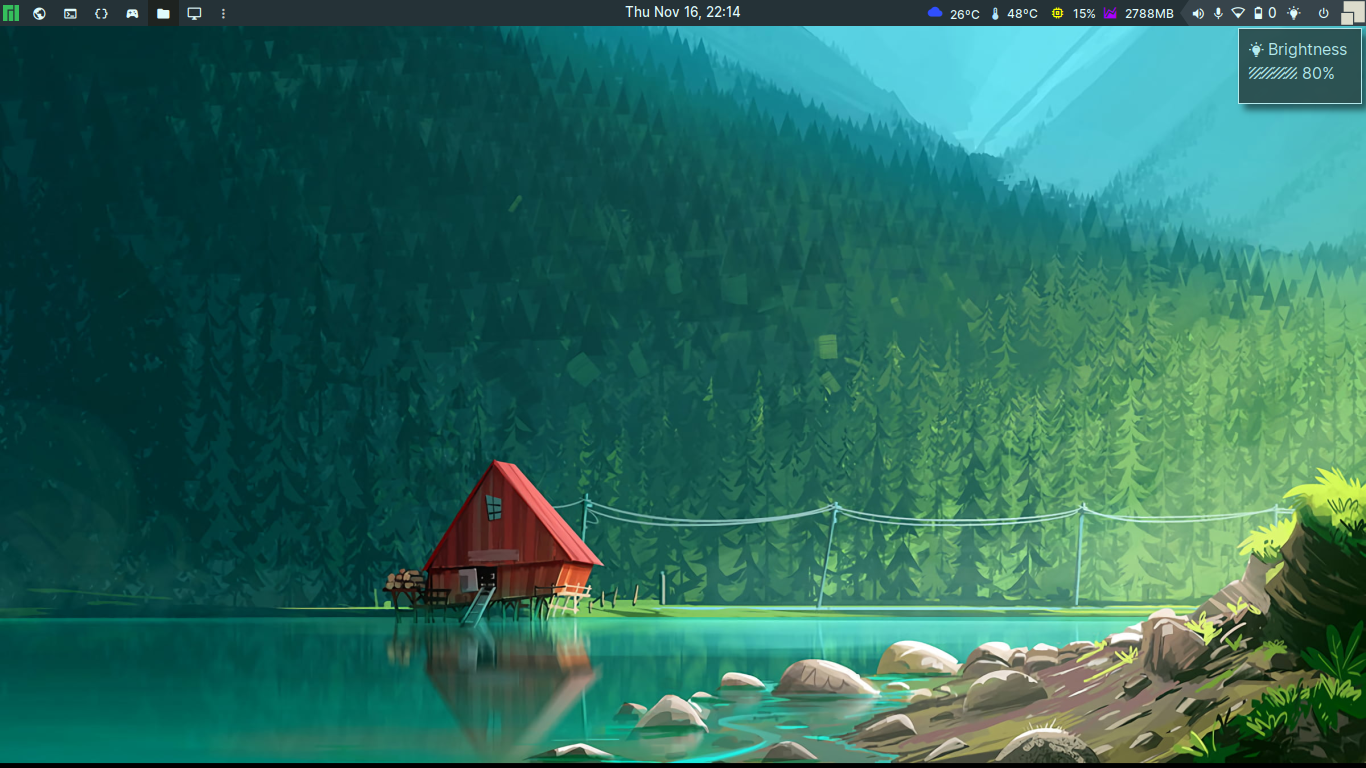
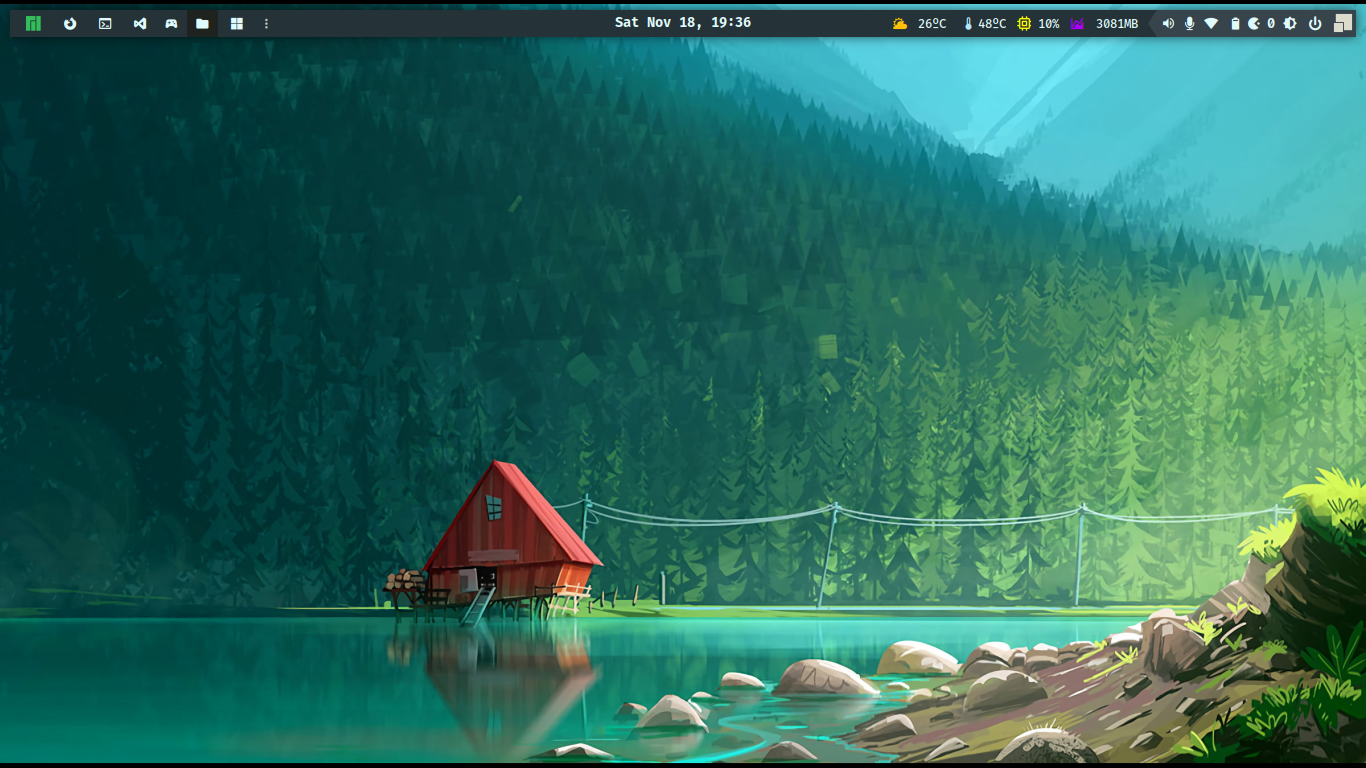
update theme

Changed region(s): [[0.0, 0.0, 1.0, 0.1562]]

diff --git a/README.md b/README.md
@@ -12,12 +12,11 @@ This theme was named *Ebenezer* 🪨, which meaning "stone of helper.".
 I use Manjaro, and the packages listed below are used to support this Awesome WM theme.
 
 - [picom-git](https://aur.archlinux.org/packages/picom-git)
-- [inter-font](https://archlinux.org/packages/extra/any/inter-font/)
-- [ttf-material-icons-git](https://aur.archlinux.org/packages/ttf-material-icons-git)
+- [ttf-firacode-nerd](https://archlinux.org/packages/extra/any/ttf-firacode-nerd/)
 - [ttf-hack-nerd](https://archlinux.org/packages/extra/any/ttf-hack-nerd/)
-- [ttf-font-awesome](https://archlinux.org/packages/extra/any/ttf-font-awesome/)
 - [scrot](https://archlinux.org/packages/extra/x86_64/scrot/)
 - [xclip](https://archlinux.org/packages/extra/x86_64/xclip/)
+- [polkit](https://archlinux.org/packages/extra/x86_64/polkit/)
 - [unclutter](https://archlinux.org/packages/extra/x86_64/unclutter/)
 - [i3color](https://aur.archlinux.org/packages/i3lock-color)
 
@@ -87,7 +86,6 @@ Reload your environment, **ModKey + R**.
 
 # TODO
 
-- The Pacman widget in the topbar is not effectively designed.
 - Add apt widget support.
 - Move systray to a popup or dropdown menu.
 - Improve wifi widget information.
